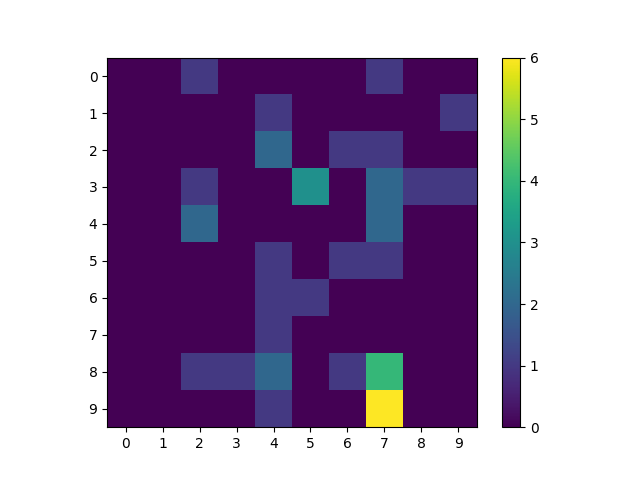
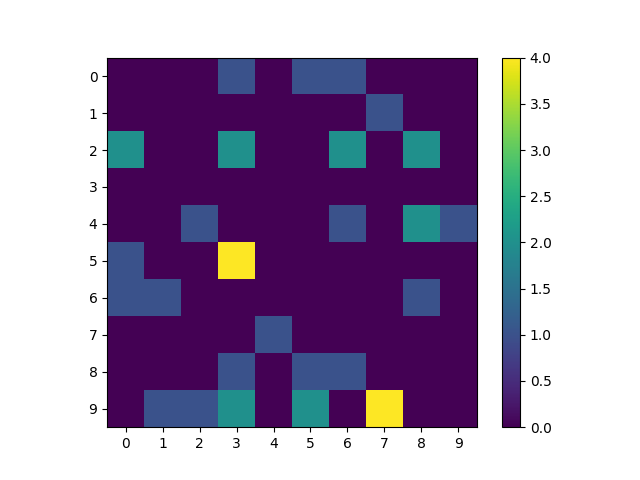
Updated Q3
I updated Q3 to run the application to generate the confusion matrix averaged over 20 runs where the diagonals are confirmed to be zeros.

diff --git a/q3.py b/q3.py
@@ -169,4 +169,19 @@ for runs in range(20): # do 20 runs on the dataset.
     # saves the plot as a png file in Q3_confusion_matrices folder
     plt.savefig("Q3_confusion_matrices/confusion_matrix_" + str(runs) + ".png")
 
+# caculate the mean confusion matrix
+mean_confusion_matrix = np.mean(confusion_matrices, axis=0)
+
+fig, ax = plt.subplots() # create a figure and axis
+
+im = ax.imshow(mean_confusion_matrix) # plot the mean confusion matrix
+
+ax.set_xticks(np.arange(len(mean_confusion_matrix))) # set the x ticks
+
+ax.set_yticks(np.arange(len(mean_confusion_matrix))) # set the y ticks
+
+fig.colorbar(im) # create a colour bar to highlight the images.
+
+plt.savefig("Q3_confusion_matrices/mean_confusion_matrix.png") # save the plot as a png file in Q3_confusion_matrices folder
+
 print("SUCCESS") # print success if the code runs without errors
